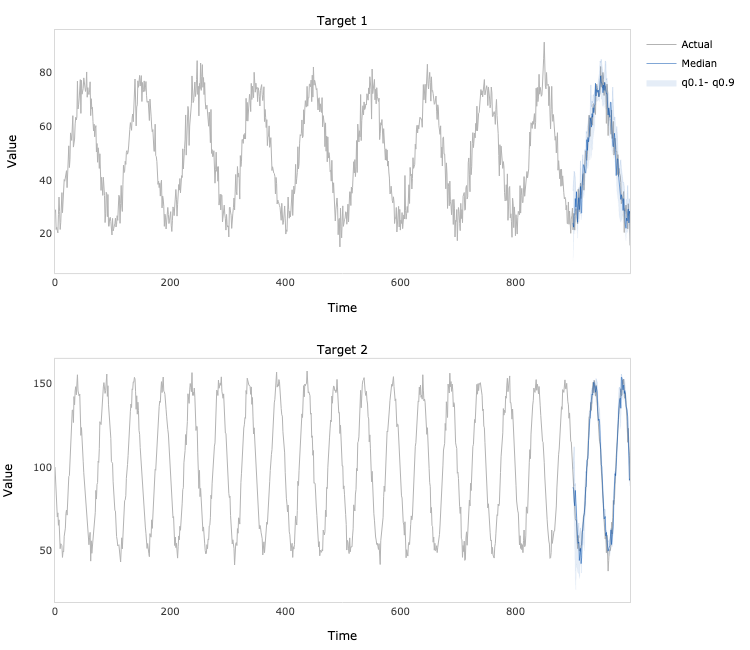
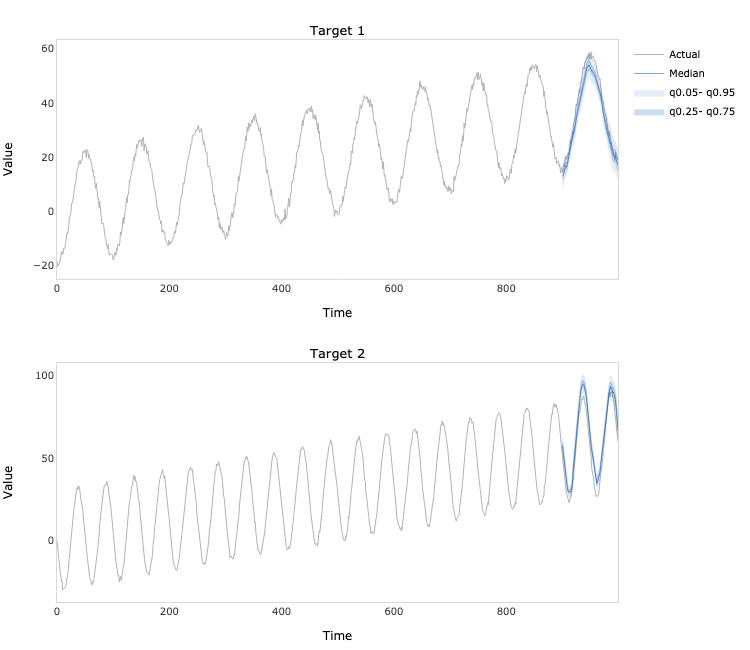
update example

diff --git a/example/example.py b/example/example.py
@@ -4,9 +4,10 @@ from deep_tcn_tensorflow.model import DeepTCN
 # Generate two time series
 N = 1000
 t = np.linspace(0, 1, N)
-e = np.random.multivariate_normal(mean=[0, 0], cov=[[15, 10.5], [10.5, 15]], size=N)
-s = np.array([50 + 25 * np.cos(2 * np.pi * (10 * t - 0.5)), 100 + 50 * np.sin(2 * np.pi * (20 * t - 0.5))]).T
-y = s + e
+e = np.random.multivariate_normal(mean=[0, 0], cov=[[1, 0.5], [0.5, 1]], size=N)
+x = 40 * t + 20 * np.cos(2 * np.pi * (10 * t - 0.5)) + e[:, 0]
+z = 60 * t + 30 * np.sin(2 * np.pi * (20 * t - 0.5)) + e[:, 1]
+y = np.hstack([x.reshape(- 1, 1), z.reshape(- 1, 1)])
 
 # Fit the model
 model = DeepTCN(
@@ -14,14 +15,15 @@ model = DeepTCN(
     x=None,
     forecast_period=100,
     lookback_period=200,
-    quantiles=[0.1, 0.5, 0.9],
+    quantiles=[0.05, 0.25, 0.5, 0.75, 0.95],
     filters=8,
-    kernel_size=2,
-    dilation_rates=[1, 2, 4, 8],
+    kernel_size=3,
+    dilation_rates=[1, 2, 4],
+    loss='parametric'
 )
 
 model.fit(
-    learning_rate=0.001,
+    learning_rate=0.01,
     batch_size=64,
     epochs=100,
 )

diff --git a/README.MD b/README.MD
@@ -19,9 +19,10 @@ from deep_tcn_tensorflow.model import DeepTCN
 # Generate two time series
 N = 1000
 t = np.linspace(0, 1, N)
-e = np.random.multivariate_normal(mean=[0, 0], cov=[[15, 10.5], [10.5, 15]], size=N)
-s = np.array([50 + 25 * np.cos(2 * np.pi * (10 * t - 0.5)), 100 + 50 * np.sin(2 * np.pi * (20 * t - 0.5))]).T
-y = s + e
+e = np.random.multivariate_normal(mean=[0, 0], cov=[[1, 0.5], [0.5, 1]], size=N)
+x = 40 * t + 20 * np.cos(2 * np.pi * (10 * t - 0.5)) + e[:, 0]
+z = 60 * t + 30 * np.sin(2 * np.pi * (20 * t - 0.5)) + e[:, 1]
+y = np.hstack([x.reshape(- 1, 1), z.reshape(- 1, 1)])
 
 # Fit the model
 model = DeepTCN(
@@ -29,14 +30,15 @@ model = DeepTCN(
     x=None,
     forecast_period=100,
     lookback_period=200,
-    quantiles=[0.1, 0.5, 0.9],
+    quantiles=[0.05, 0.25, 0.5, 0.75, 0.95],
     filters=8,
-    kernel_size=2,
-    dilation_rates=[1, 2, 4, 8],
+    kernel_size=3,
+    dilation_rates=[1, 2, 4],
+    loss='parametric'
 )
 
 model.fit(
-    learning_rate=0.001,
+    learning_rate=0.01,
     batch_size=64,
     epochs=100,
 )
